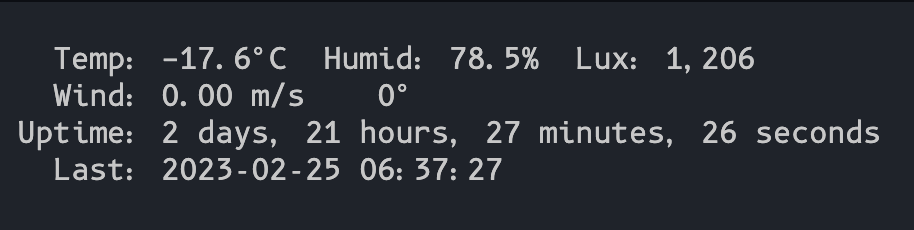
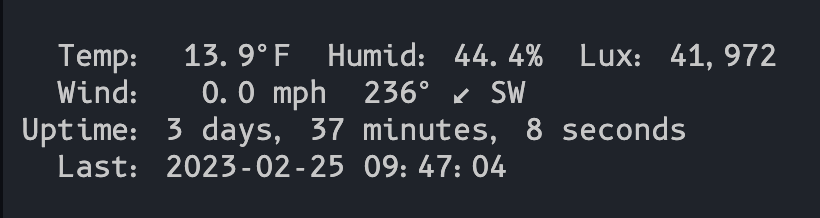
feat: daft U.S. temperature scale
feat: wind direction

feat: better alignment

diff --git a/gui.ts b/gui.ts
@@ -1,5 +1,5 @@
 import { crayon } from "https://deno.land/x/crayon@3.3.2/mod.ts";
-import { Canvas, Tui  } from "https://deno.land/x/tui@1.3.4/mod.ts";
+import { Canvas, Tui } from "https://deno.land/x/tui@1.3.4/mod.ts";
 import { LabelComponent } from "https://deno.land/x/tui@1.3.4/src/components/mod.ts";
 import { handleKeyboardControls, handleKeypresses } from "https://deno.land/x/tui@1.3.4/src/keyboard.ts";
 // @ts-ignore d3
@@ -10,6 +10,11 @@ import humanizeDuration from "https://esm.sh/humanize-duration@3.28.0";
 
 // @ts-ignore d3
 const fmt = timeFormat("%Y-%m-%d %H:%M:%S");
+
+function getCardinalDirection(angle: number): string {
+	const directions = ['↑ N', '↗ NE', '→ E', '↘ SE', '↓ S', '↙ SW', '← W', '↖ NW'];
+	return directions[Math.round(angle / 45) % 8];
+}
 
 const tuiStyle = crayon.bgBlack.white;
 
@@ -108,15 +113,16 @@ tui.on("update", async () => {
 	// lastMsg.value = decoded.type;
 
 	if (decoded.type == "obs_st") {
+		const tempF = (decoded.obs[0][7] * 1.8) + 32;
 		// @ts-ignore d3
-		temp.value = "  Temp: " + format("5.1f")(decoded.obs[0][7]) + "°C  Humid: " + format("4.1f")(decoded.obs[0][8]) + "%  Lux: " + format(",")(decoded.obs[0][9]);
+		temp.value = "  Temp: " + format("5.1f")(tempF) + "°F  Humid: " + format("4.1f")(decoded.obs[0][8]) + "%  Lux: " + format(",")(decoded.obs[0][9]);
 		const ts = new Date(decoded.obs[0][0] * 1000);
 		last.value = "  Last: " + fmt(ts);
 	}
 
 	if (decoded.type == "rapid_wind") {
 		// @ts-ignore d3
-		wind.value = "  Wind: " + format("4.2f")(decoded.ob[1]) + " m/s  " + format("3")(decoded.ob[2]) + "°";
+		wind.value = "  Wind: " + format("5.1f")(decoded.ob[1] / 0.44704) + " mph  " + format("3")(decoded.ob[2]) + "° " + getCardinalDirection(decoded.ob[2]);
 		const ts = new Date(decoded.ob[0] * 1000);
 		last.value = "  Last: " + fmt(ts);
 	}
